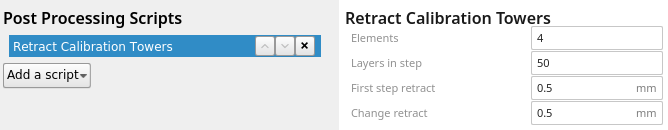
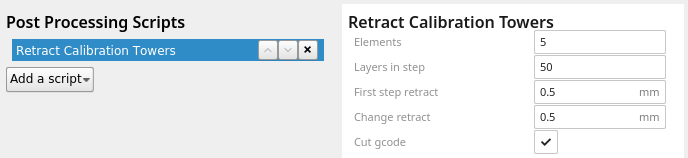
retract_calibration_towers.sh - Added cut gcode and commits

diff --git a/cura/retract_calibration_towers/retract_calibration_towers.py b/cura/retract_calibration_towers/retract_calibration_towers.py
@@ -55,20 +55,26 @@ class retract_calibration_towers(Script):
 					"type": "float",
 					"default_value": 0.5,
 					"minimum_value": "0.1"
-				}
+				},
+				"cut_gcode":
+                {
+                    "label": "Cut gcode",
+                    "description": "Cut gcode after last element",
+                    "type": "bool",
+                    "default_value": true
+                }
 			}
 		}"""
 
 	def execute(self, data: list):
 		
-		steps = self.getSettingValueByKey("steps")
-		layers_step = self.getSettingValueByKey("layers_step")
-		initial_retract = self.getSettingValueByKey("initial_retract")
-		retract_step = self.getSettingValueByKey("retract_step")
+		steps = self.getSettingValueByKey("steps")										#Количество элементов башни
+		layers_step = self.getSettingValueByKey("layers_step")							#Количество слоёв на элемент
+		initial_retract = self.getSettingValueByKey("initial_retract")					#Длина ретракта на 1-м элементе
+		retract_step = self.getSettingValueByKey("retract_step")						#Увеличение длины ретракта на следующем элементе
+		cut_gcode = self.getSettingValueByKey("cut_gcode")								#Обрезать gcode после последнего элемента
 		
 		if steps > 0:
-			
-			number_of_layers = len(data)												#Получаем количество элементов в списке данных (слоев)
 			
 			step = 1
 			retract = initial_retract
@@ -77,31 +83,34 @@ class retract_calibration_towers(Script):
 			E_before = 0.0
 			E_now = 0.0
 			
-			while step <= steps:
+			while step <= steps:														#Цикл перебора элеметов
 				
-				for layer in range(layer_step_start,layer_step_finish):					#Перебираем список/слои
+				for layer in range(layer_step_start,layer_step_finish):					#Цикл перебора слоев в элементе
 
 					layer_lines = data[layer].split("\n")								#Формируем список из данных слоя
 					index = 0
 					
-					for line in layer_lines:
+					for line in layer_lines:											#Цикл перебора строк в слое
 						
 						if "G1" in line and "E" in line:
-							E_now = float(line[line.find("E")+1:])
+							E_now = float(line[line.find("E")+1:])						#Длина ретракта в строке
 							
-						if E_before > E_now:
-							#new_line = "Index=" + str(index) + " " + "step=" + str(step) + " " + str(E_before - retract)
-							new_line = line[:line.find("E")+1] + str(E_before - retract)
-							layer_lines[index] = new_line
+						if E_before > E_now:											#Если координата оси экструдера данной строки меньше предыдущей, то это ретракт 
+							new_line = line[:line.find("E")+1] + str(E_before - retract)	#Замена длины ретракта на заданную в параметрах сценария
+							layer_lines[index] = new_line								#Замена строки в слое
 
-						E_before = E_now
-						index += 1
+						E_before = E_now												#Текущая позиция оси экструдера для последующего сравнения
+						index += 1														#Номер строки в слое
 
-					data[layer] = '\n'.join(layer_lines)								#Объединяем список в данные и возвращаем в слой
+					data[layer] = '\n'.join(layer_lines)								#Объединяем строки и возвращаем в слой
 					
-				layer_step_start = layer_step_finish
-				layer_step_finish = layer_step_finish + layers_step
-				step += 1
-				retract += retract_step
-
+				layer_step_start = layer_step_finish									#Последний номер слоя в элементе как первый в следующем элементе
+				layer_step_finish = layer_step_finish + layers_step						#Номер последнего слоя для следующего элемента
+				step += 1																#Следущий элемент
+				retract += retract_step													#Длина ретракта для следующего элемента
+			
+			if cut_gcode:																#Обрезка gcode после обработки заданного количества элементов
+				number_of_layers = len(data)											#Количество элементов в списке данных (слоев)
+				data = data[:layer_step_start] + data[number_of_layers-1:]
+			
 		return data
